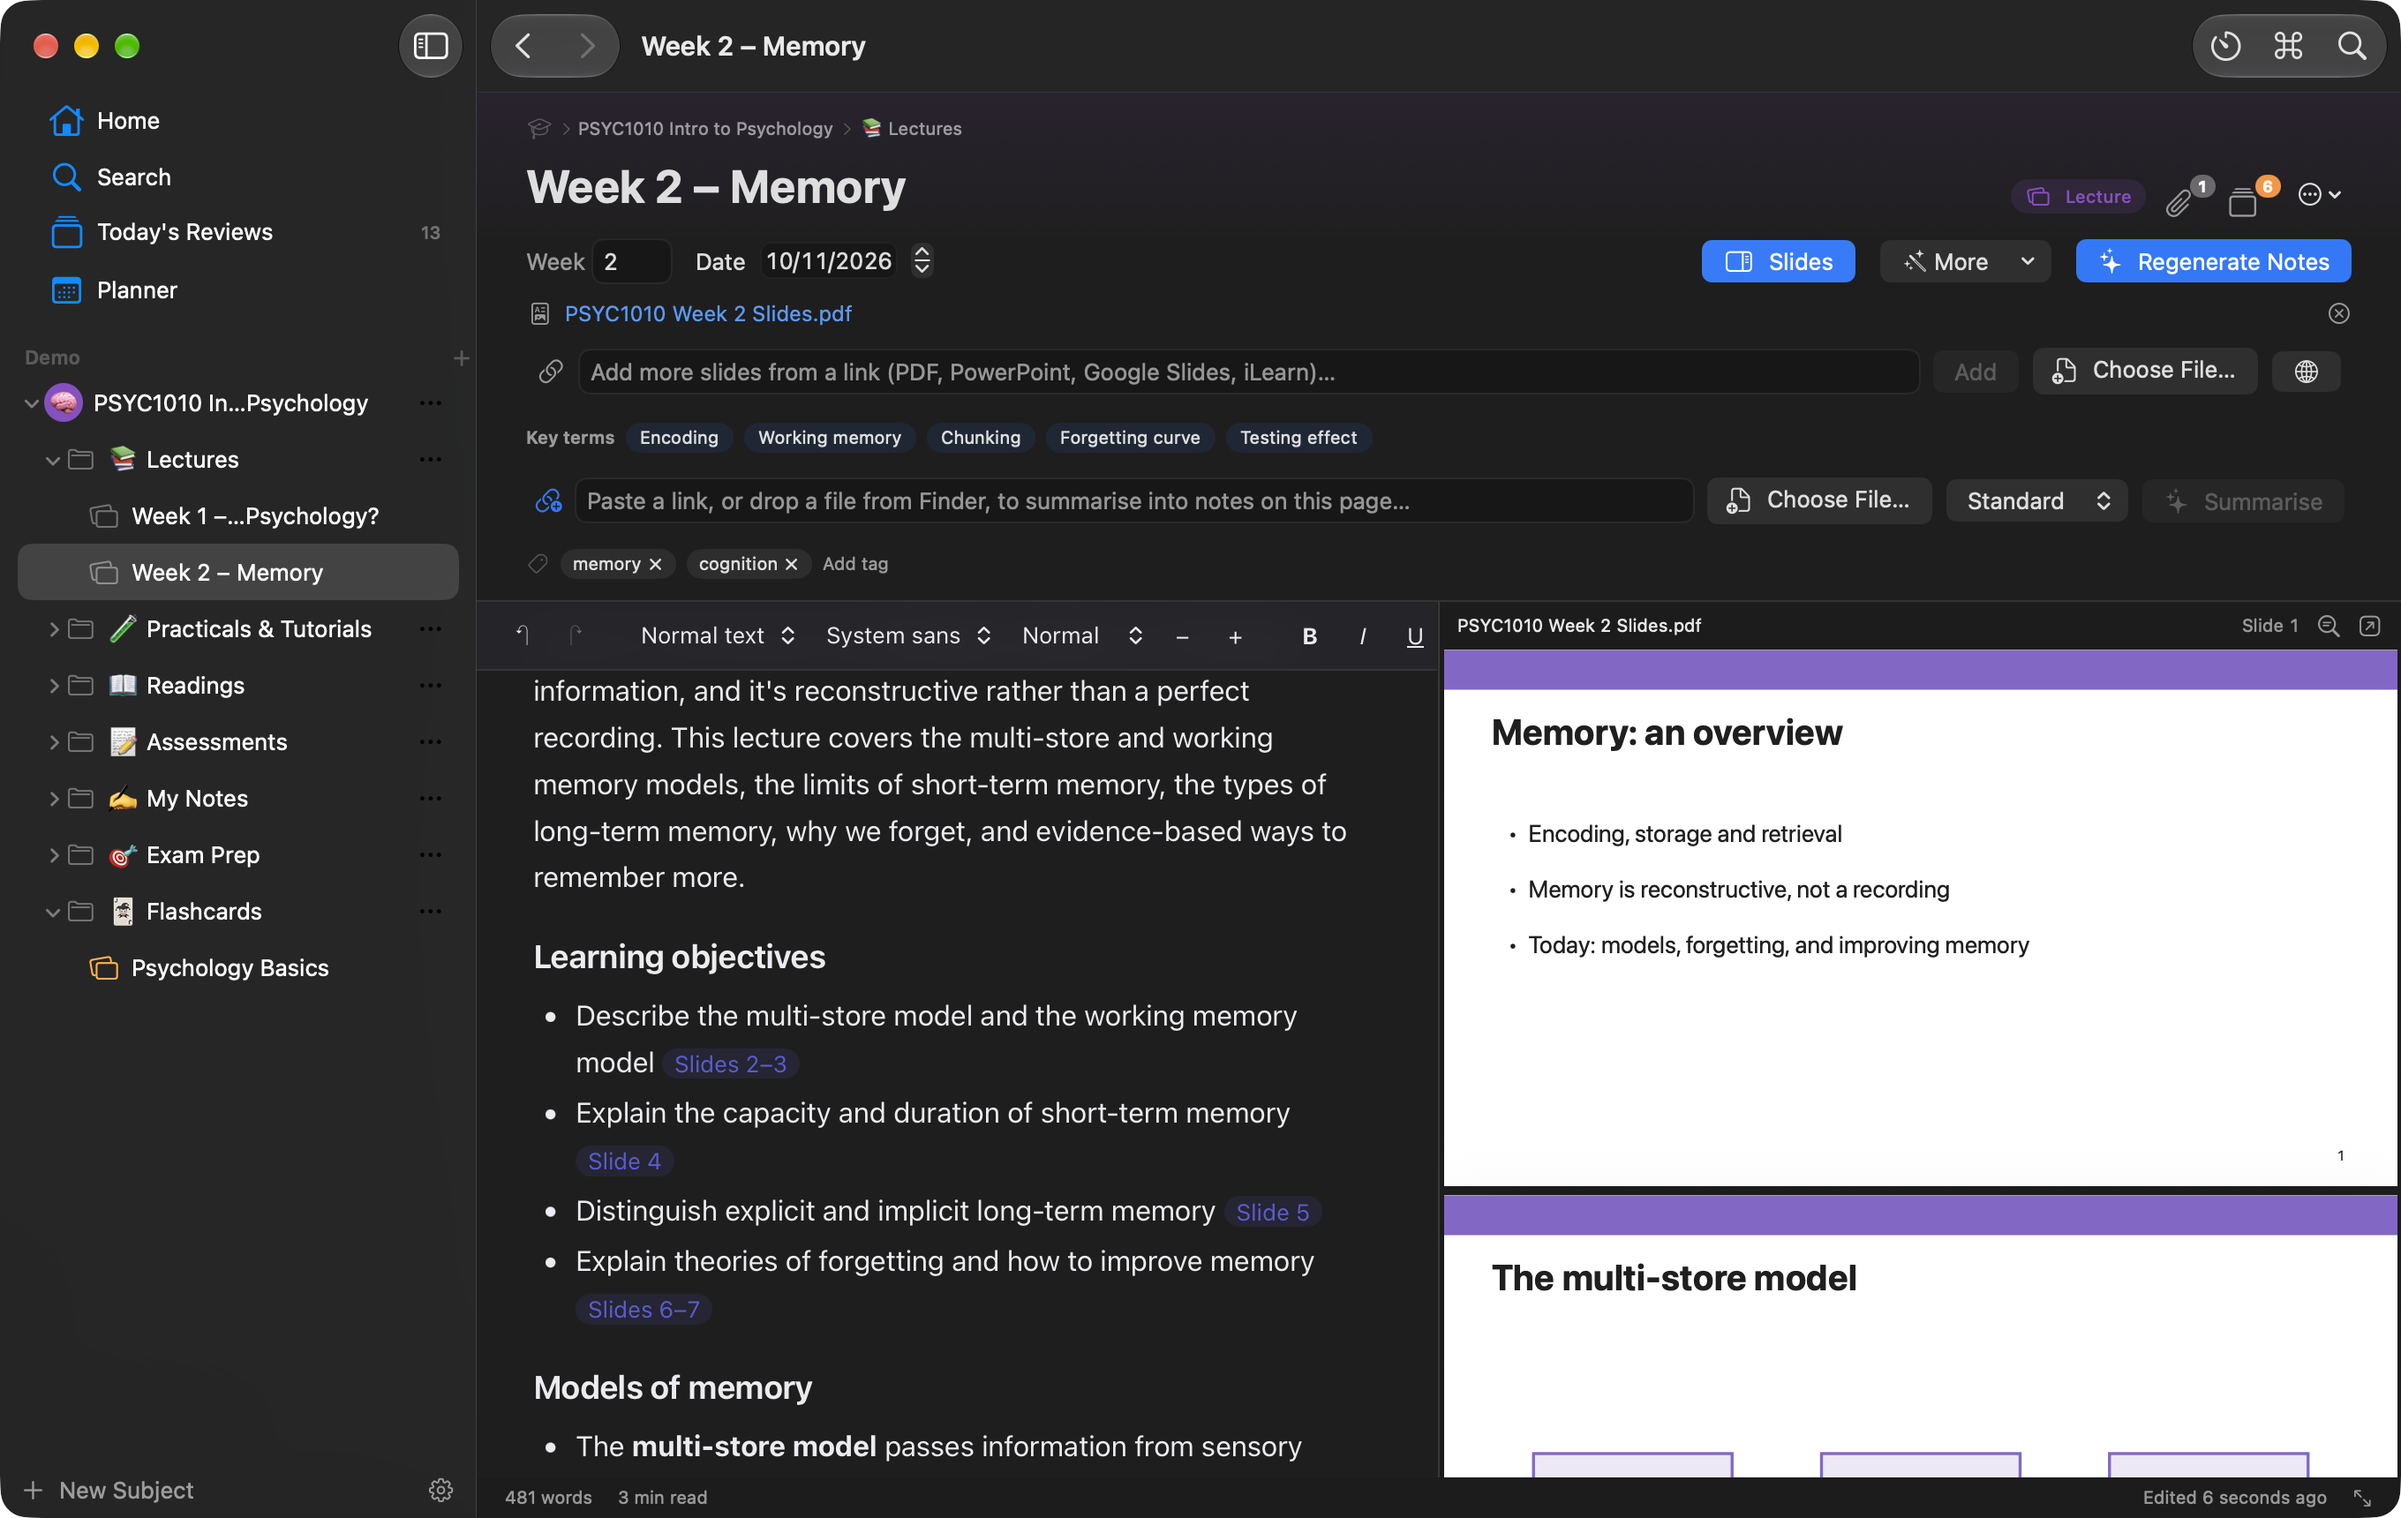
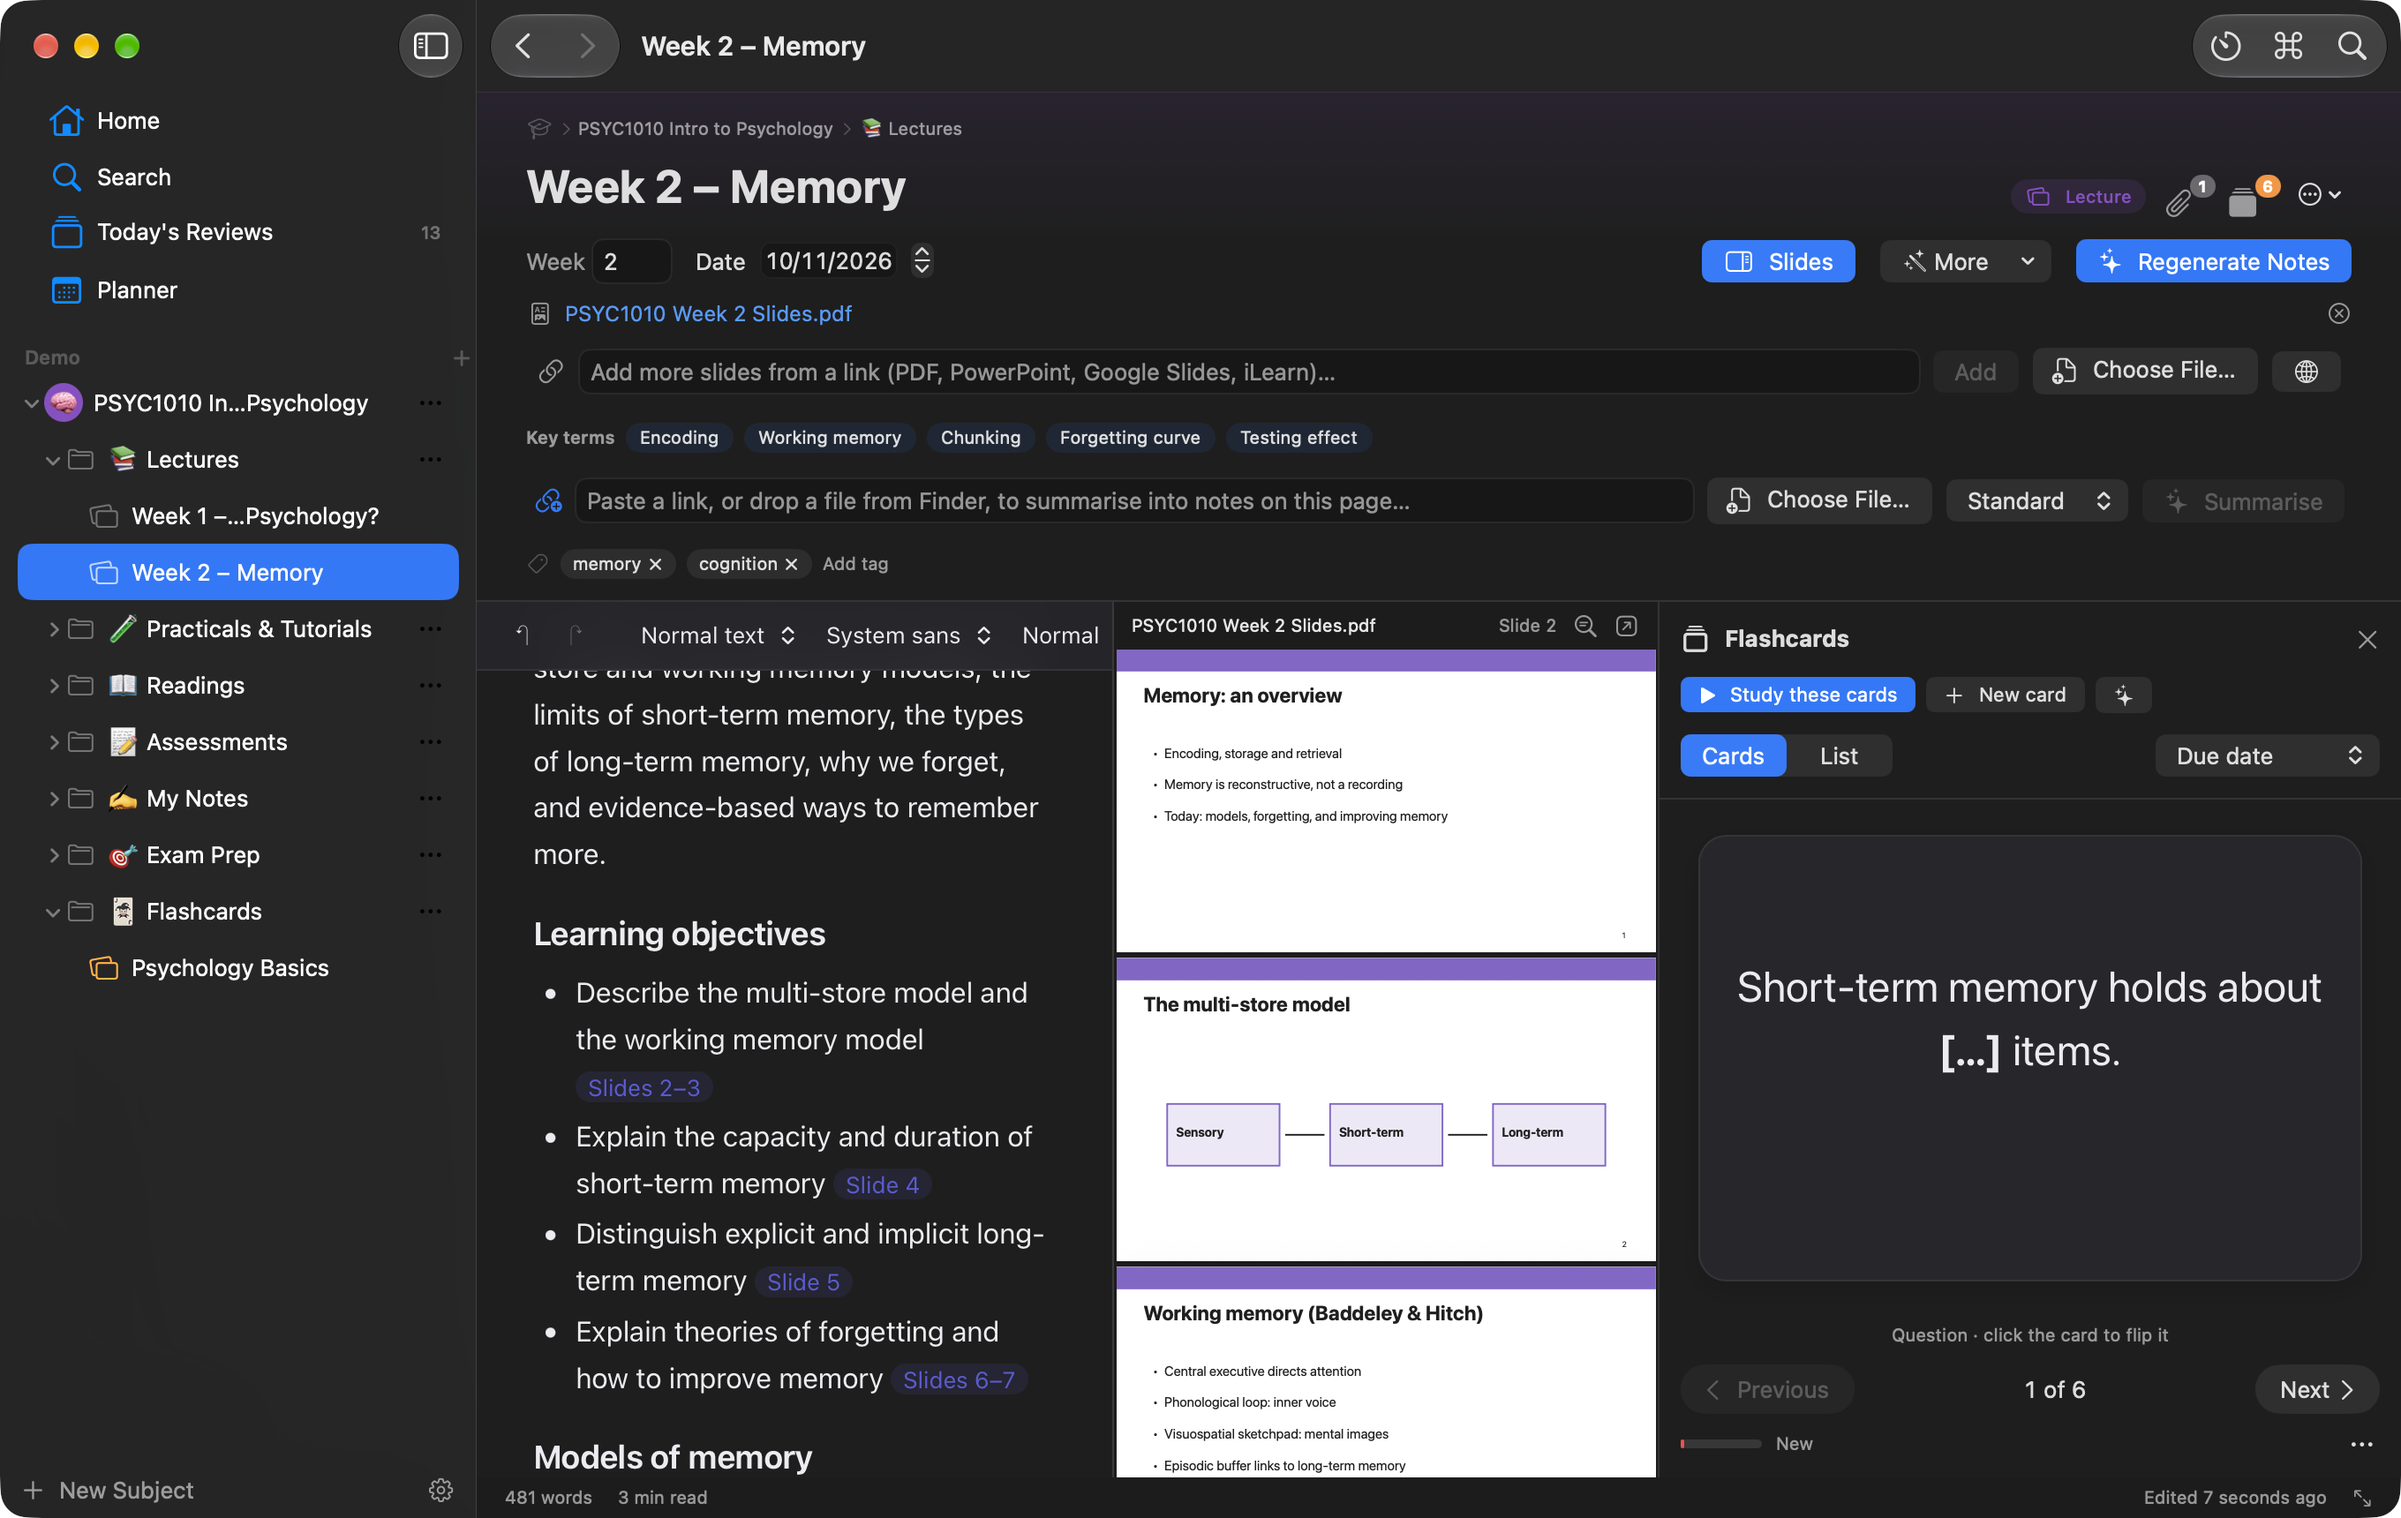
Release 1.5.2

Changed region(s): [[0.2188, 0.4006, 1.0, 0.986], [0.0, 0.339, 0.1875, 0.4006], [0.9062, 0.1233, 0.9375, 0.1541]]

diff --git a/release-notes/1.5.2.html b/release-notes/1.5.2.html
@@ -1,0 +1,4 @@
+<!doctype html><html><head><meta charset="utf-8"><title>Lectern 1.5.2</title>
+<style>body{font:13px -apple-system,sans-serif;margin:16px;color:#222}h2{margin:0 0 4px}h3{margin:14px 0 4px;color:#7a5af0}
+li{margin:3px 0}@media (prefers-color-scheme:dark){body{color:#eee;background:#1e1e1e}}</style></head>
+<body><h2>Lectern 1.5.2</h2><p>Flashcards on a page are now real flip cards with Previous and Next</p><h3>Added</h3><ul><li>A page&#x27;s flashcards now appear as real cards in the side panel: click to flip, with Previous and Next underneath and a card counter. ← → and Space work after clicking the card. A Cards / List switch keeps the list view.</li></ul></body></html>
